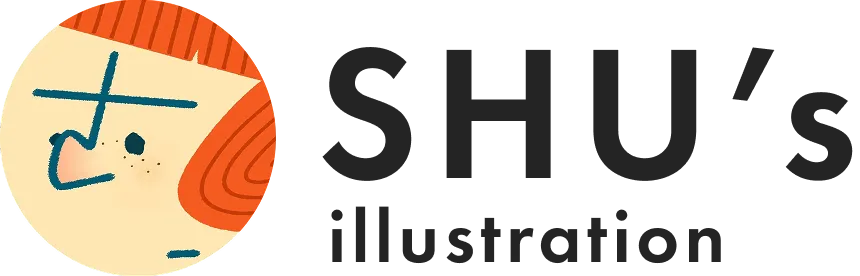
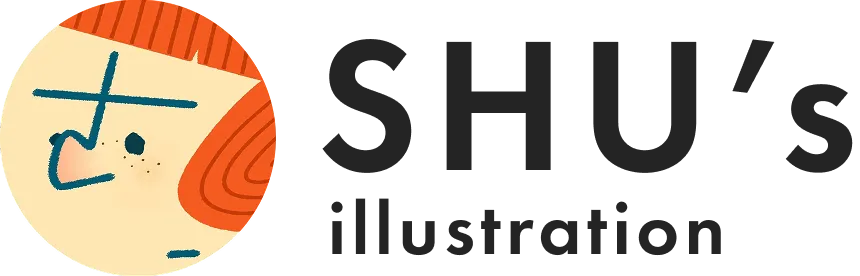
最終調整と軽量化の完了

diff --git a/profile.html b/profile.html
@@ -27,7 +27,7 @@
             <div class="header__topic">
                 <h1 class="header__logo">
                     <a href="index.html" class="header__logoLink">
-                        <img src="assets/images/top/mainIcon.svg" alt="logo">
+                        <img src="assets/images/top/mainIcon.webp" alt="logo">
                     </a>
                 </h1>
                 <div class="header__menu">
@@ -42,7 +42,7 @@
                 <div class="nav__header">
                     <p class="header__logo">
                         <a href="index.html" class="header__logoLink">
-                            <img src="assets/images/top/navIcon.svg" alt="logo">
+                            <img src="assets/images/top/navIcon.webp" alt="logo">
                         </a>
                     </p>
                     <div class="header__menu">

diff --git a/works.html b/works.html
@@ -27,7 +27,7 @@
             <div class="header__topic">
                 <h1 class="header__logo">
                     <a href="index.html" class="header__logoLink">
-                        <img src="assets/images/top/mainIcon.svg" alt="logo">
+                        <img src="assets/images/top/mainIcon.webp" alt="logo">
                     </a>
                 </h1>
                 <div class="header__menu">
@@ -42,7 +42,7 @@
                 <div class="nav__header">
                     <p class="header__logo">
                         <a href="index.html" class="header__logoLink">
-                            <img src="assets/images/top/navIcon.svg" alt="logo">
+                            <img src="assets/images/top/navIcon.webp" alt="logo">
                         </a>
                     </p>
                     <div class="header__menu">
